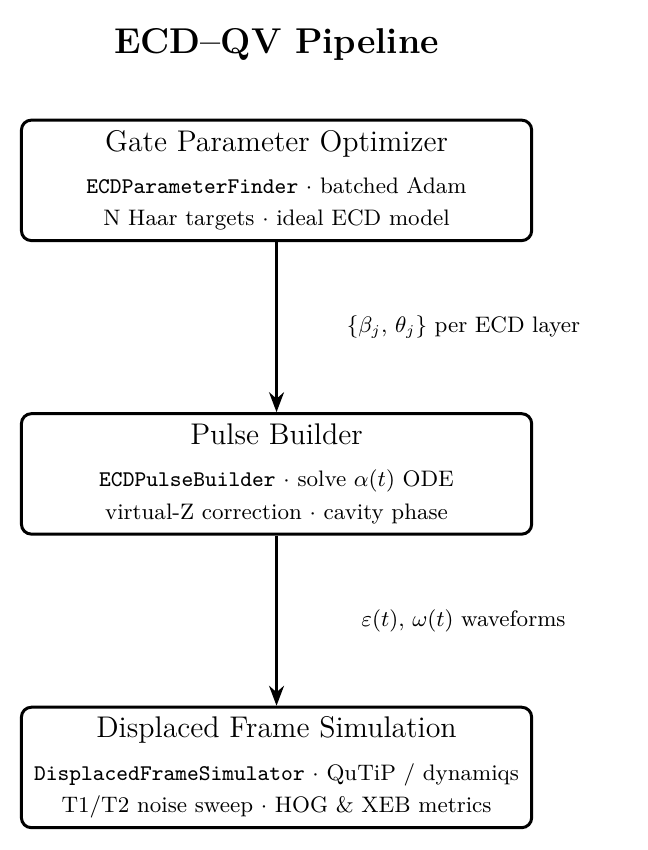
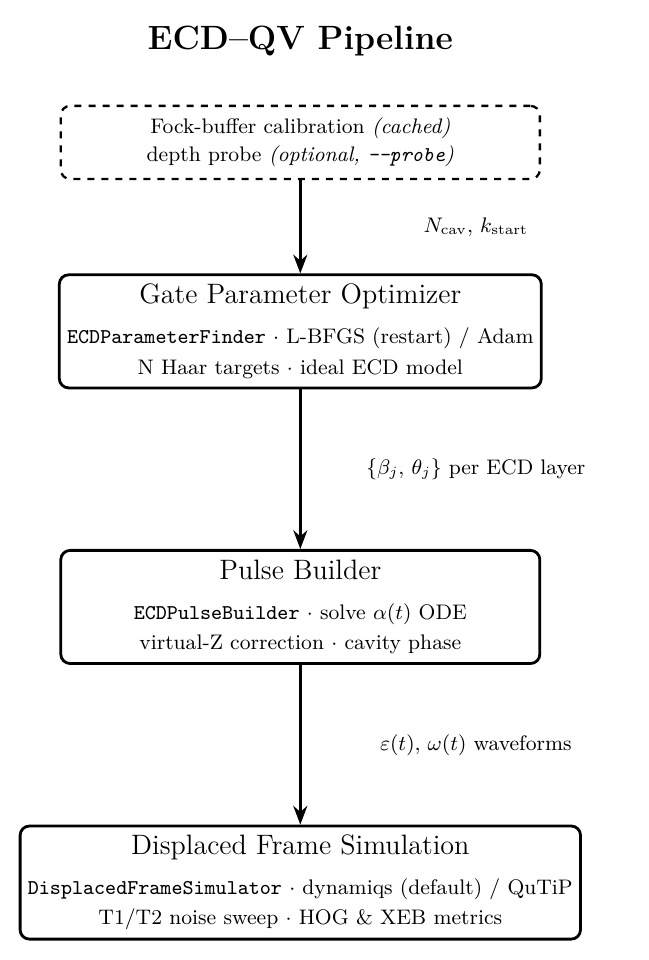
changes to readme (and flow diagram) to reflect new default configuration and capabilities of cli commands

Changed region(s): [[0.0309, 0.0918, 0.8951, 1.0], [0.1852, 0.0, 0.7099, 0.0612], [0.5864, 0.7647, 0.8951, 0.7953]]

diff --git a/docs/pipeline_flow.tex b/docs/pipeline_flow.tex
@@ -17,6 +17,12 @@
         align=center, font=\large,
         line width=1.2pt
     },
+    prep/.style={
+        draw, dashed, rectangle, rounded corners=4pt,
+        minimum width=7.2cm, minimum height=1.1cm,
+        align=center, font=\small,
+        line width=1.0pt
+    },
     arrow/.style={
         ->, -{Stealth[length=8pt]},
         line width=1.2pt
@@ -26,9 +32,14 @@
 
 \node[font=\Large\bfseries] (title) {ECD--QV Pipeline};
 
-\node[box, below=0.7cm of title] (gate) {
+\node[prep, below=0.6cm of title] (calib) {
+    Fock-buffer calibration \emph{(cached)} \\[1pt]
+    depth probe \emph{(optional, \texttt{--probe})}
+};
+
+\node[box, below=1.4cm of calib] (gate) {
     Gate Parameter Optimizer \\[3pt]
-    \small\texttt{ECDParameterFinder} $\cdot$ batched Adam \\[-1pt]
+    \small\texttt{ECDParameterFinder} $\cdot$ L-BFGS (restart) / Adam \\[-1pt]
     \small \Nunitaries\ Haar targets $\cdot$ ideal ECD model
 };
 
@@ -40,9 +51,12 @@
 
 \node[box, below=2.4cm of pulse] (sim) {
     Displaced Frame Simulation \\[3pt]
-    \small\texttt{DisplacedFrameSimulator} $\cdot$ QuTiP / dynamiqs \\[-1pt]
+    \small\texttt{DisplacedFrameSimulator} $\cdot$ dynamiqs (default) / QuTiP \\[-1pt]
     \small T1/T2 noise sweep $\cdot$ HOG \& XEB metrics
 };
+
+\draw[arrow] (calib.south) -- (gate.north)
+    node[midway, right=0.3cm, lbl] {$N_{\mathrm{cav}}$, $k_{\mathrm{start}}$};
 
 \draw[arrow] (gate.south) -- (pulse.north)
     node[midway, right=0.3cm, lbl] {$\{\beta_j,\,\theta_j\}$ per ECD layer};

diff --git a/README.md b/README.md
@@ -114,6 +114,17 @@ stages:
    [`plot_results.py`](metriq_qudits/plot_results.py) loads the saved
    simulation results and generates the figures under `outputs/plots/`.
 
+The dashed box is a one-time **calibration phase** that runs before stage 1.
+[`compile.py`](metriq_qudits/compilation/compile.py) sweeps the number of Fock
+buffer levels above the qudit dimension and keeps the smallest count whose
+compiled circuits stay stable when replayed at larger truncations. The result is
+cached under `outputs/calibration/` and reused automatically on later runs.
+Production then starts at a generous "known-comfortable" depth by default. Add
+`--probe` to instead search for a shallower start depth, which compiles more
+slowly but yields shorter pulses and faster simulation. Use `--overwrite` to force
+a fresh calibration and `--optimizer {lbfgs,adam}` to choose the parameter
+optimizer (L-BFGS by default).
+
 ## References
 
 - [Benchmarking the algorithmic reach of a high-Q cavity qudit](https://arxiv.org/abs/2408.13317)
